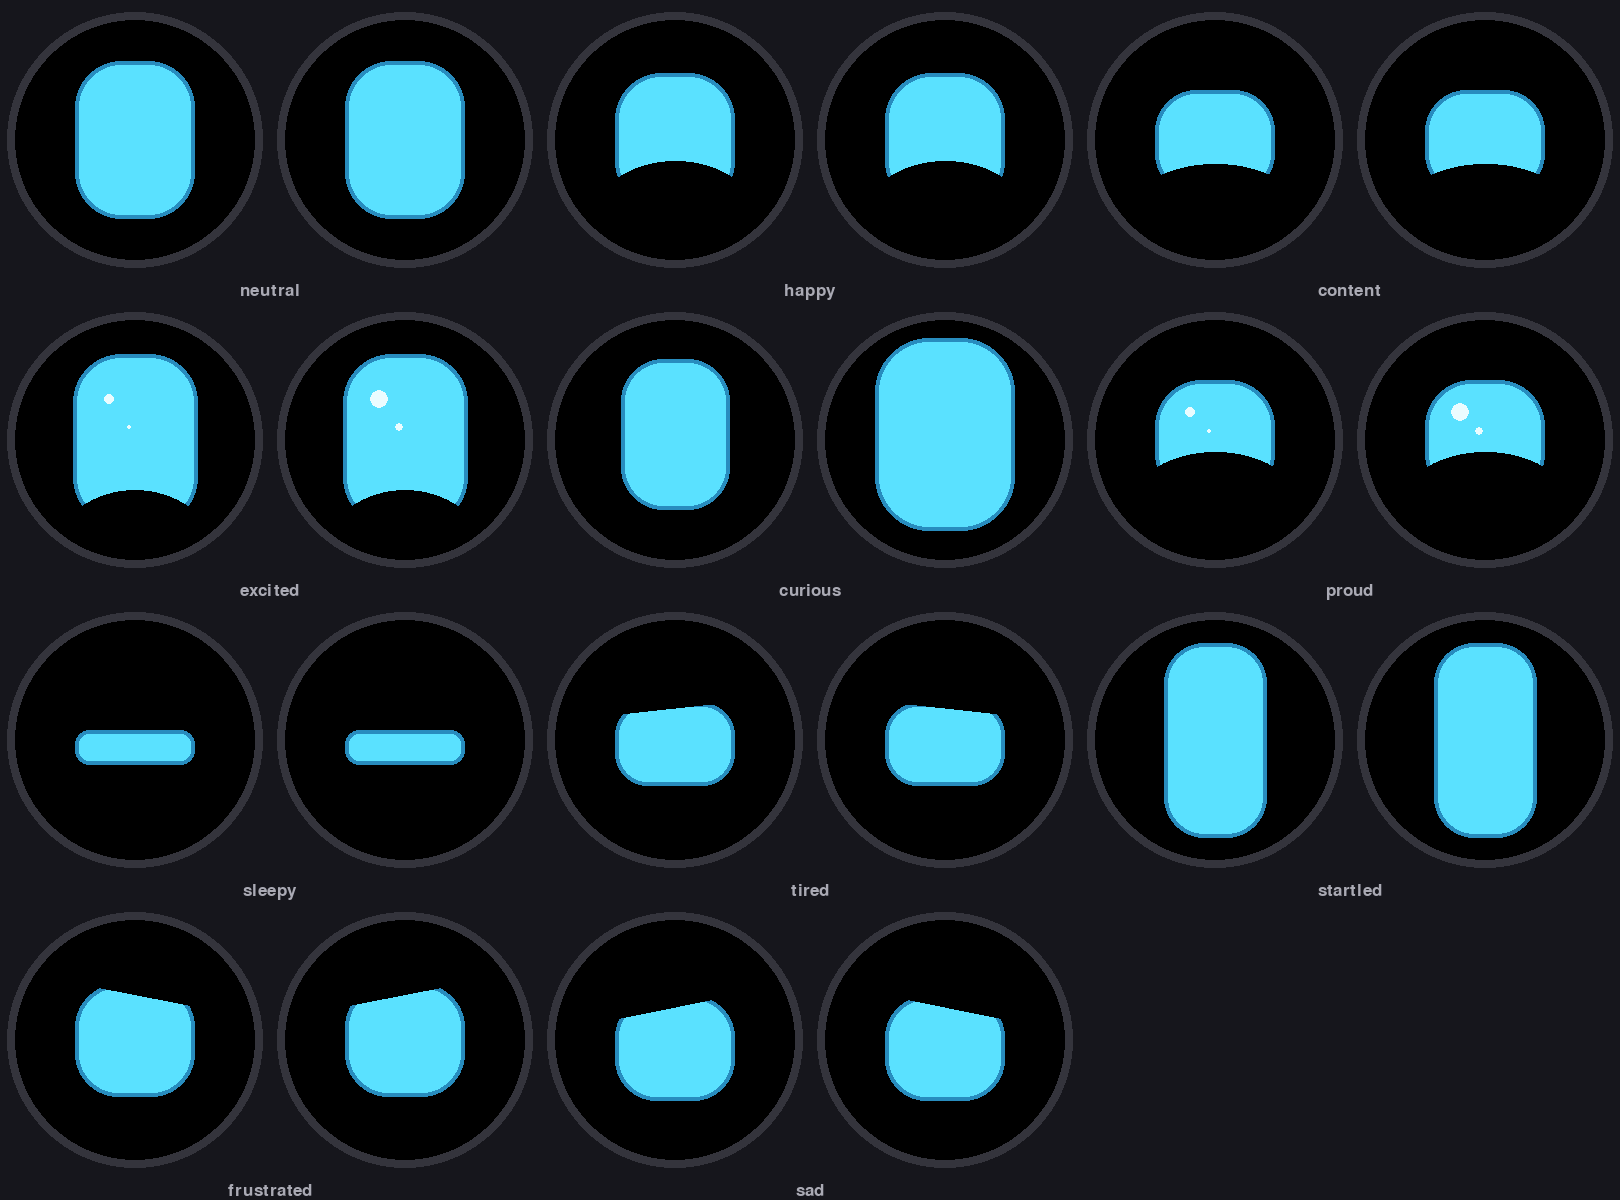
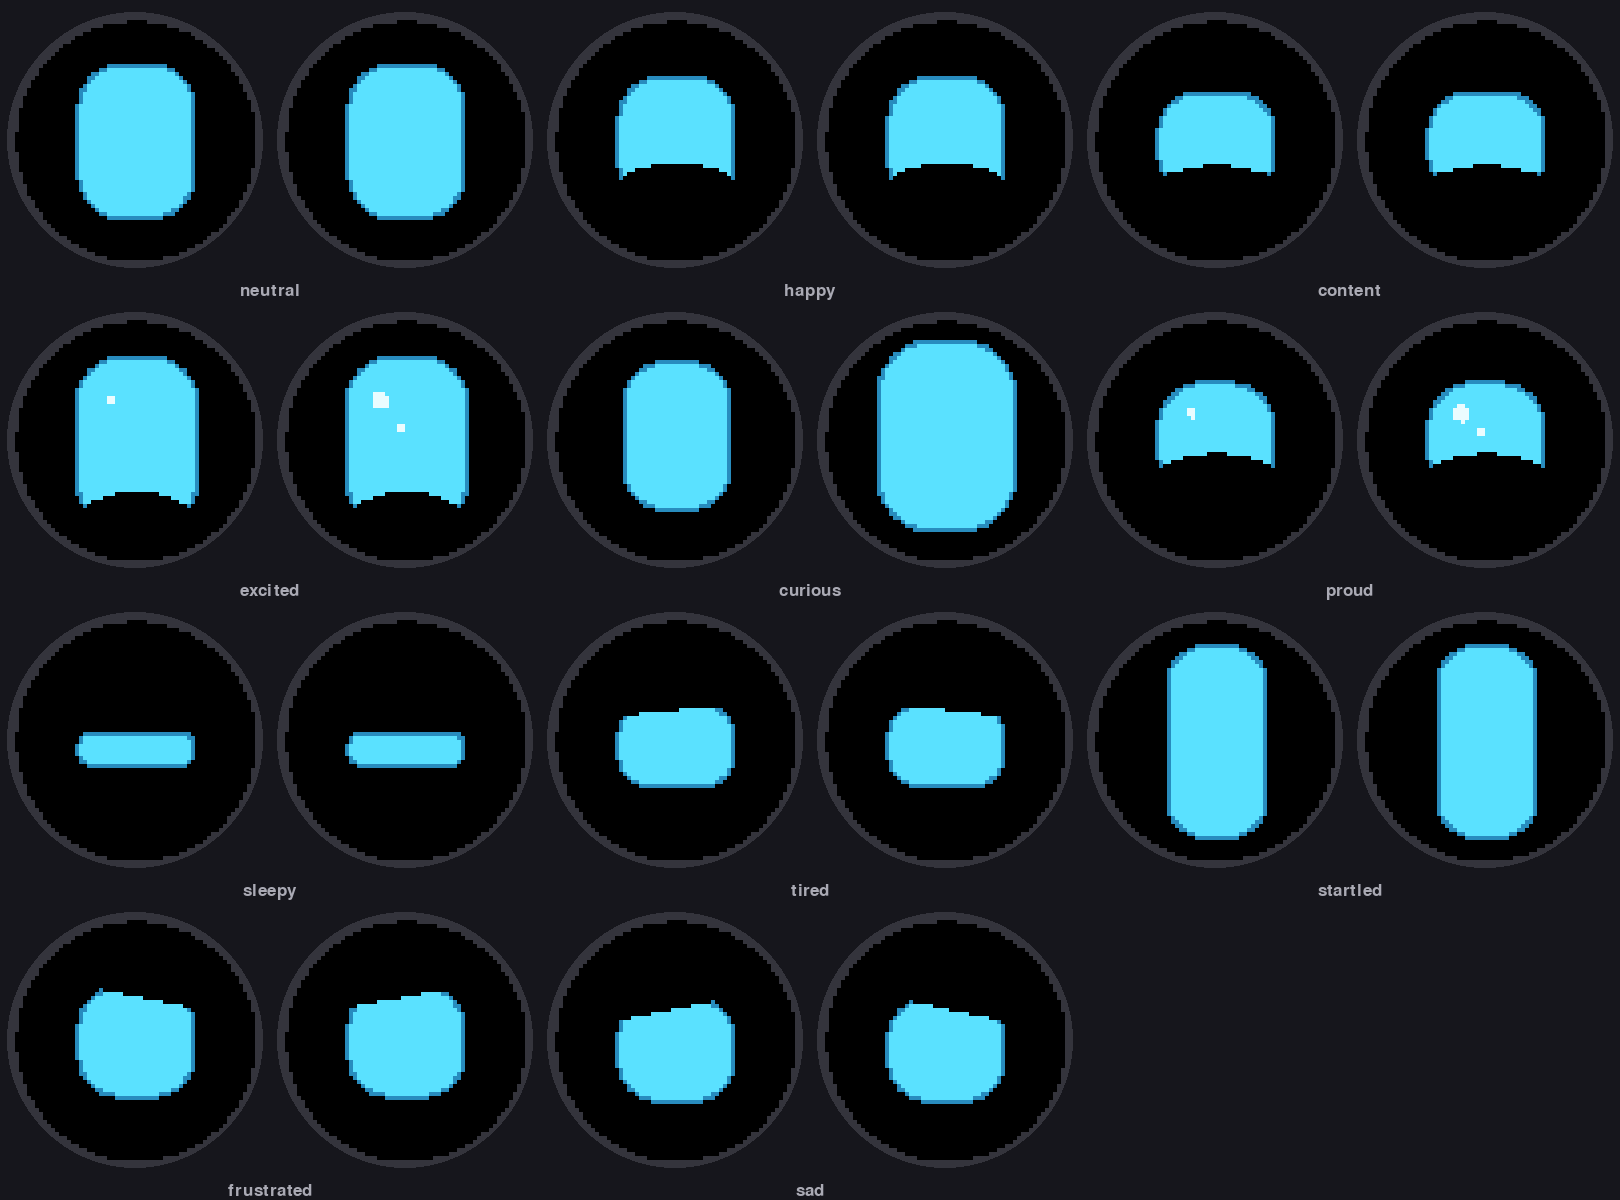
Pixelate the real robot's eyes to match
The eye renderer draws at full size, drops to 60x60 and scales back up
with nearest-neighbour, so each art pixel is a 4x4 block on the round
screen. New contact sheet and a demo screenshot in the README.

diff --git a/src/pip_personality/pip_personality/eyes_render.py b/src/pip_personality/pip_personality/eyes_render.py
@@ -12,6 +12,7 @@ import pygame
 from .eyes_params import EyeParams, lerp_params, target_for_mood
 
 DISPLAY = 240
+PIXEL = 4  # size of one "art pixel" on the real screen
 EYE_COLOR = (90, 225, 255)
 EYE_EDGE = (40, 140, 190)
 SPARKLE = (235, 252, 255)
@@ -67,6 +68,10 @@ class EyeRenderer:
             surf.fill((*BACKGROUND, 255))
             self._draw_eye(surf, side)
             surf.blit(self._mask, (0, 0), special_flags=pygame.BLEND_RGBA_MULT)
+            # Pixel-art look: draw at full size, drop to 60x60, blow back up with nearest-neighbour
+            # (pygame's plain scale). Each eye pixel becomes a crisp 4x4 block on the 240px screen.
+            small = pygame.transform.scale(surf, (DISPLAY // PIXEL, DISPLAY // PIXEL))
+            surf = pygame.transform.scale(small, (DISPLAY, DISPLAY))
             pos = (x0 + i * (DISPLAY + gap), y0)
             pygame.draw.circle(screen, BEZEL, (pos[0] + DISPLAY // 2, pos[1] + DISPLAY // 2),
                                DISPLAY // 2 + 8)

diff --git a/README.md b/README.md
@@ -11,8 +11,13 @@ though: the same ROS 2 nodes will run on the robot.
 
 **[Watch it run in your browser →](https://afnandanish.github.io/pip-robot/)**
 
+[![The browser demo: Pip's face, its status, and the controls](docs/demo.jpg)](https://afnandanish.github.io/pip-robot/)
+
 Things to try there: drop a box in front of it, click somewhere on its map to send it off, poke it,
-or put it to sleep. The numbered dots are developer commentary, and each one explains a decision.
+or put it to sleep. The numbered signs are developer commentary, and each one explains a decision.
+
+Everything is pixel art on purpose, including the eyes on the real robot: they're drawn at 60×60
+and blown up 4× on the 240×240 screens. Here's every mood:
 
 ![Pip's eyes, one for each mood](docs/eyes.png)
 
